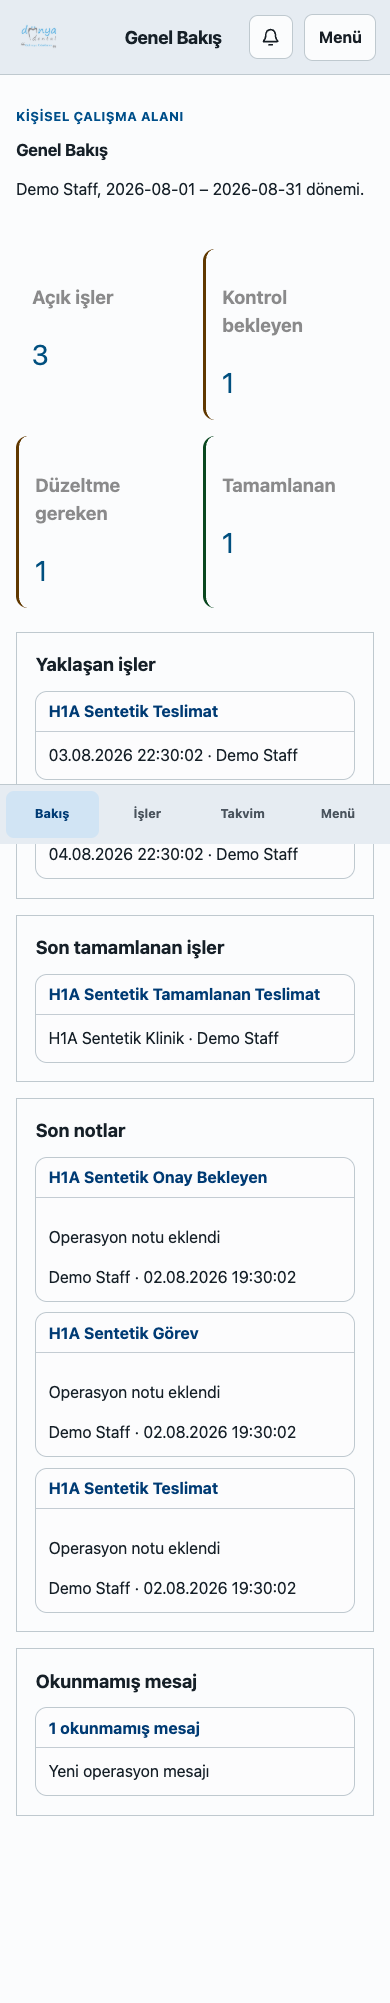
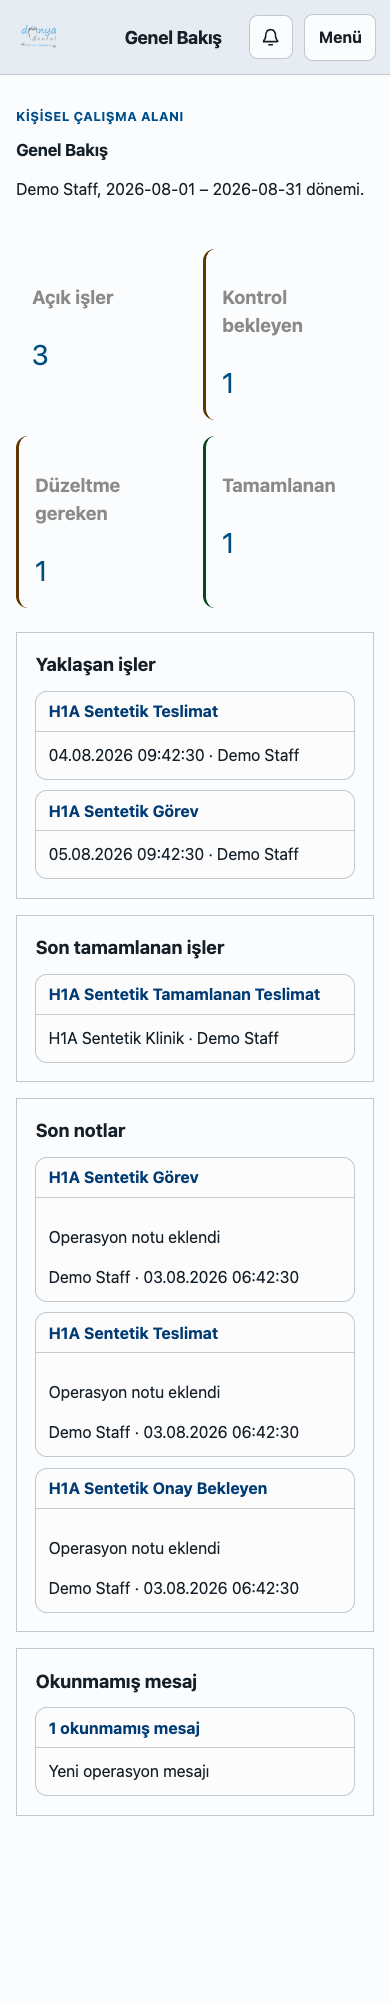
docs(evidence): re-capture full-page staff overview without fixed-nav occlusion

diff --git a/docs/evidence/phase-u-workspace/README.md b/docs/evidence/phase-u-workspace/README.md
@@ -53,7 +53,7 @@ Candidate B — Clinical Cool (canonical production palette)
 - **Runtime:** reload persistence verified
 - **Relationship:** supplements the existing viewport-clipped `overview-staff-390.png`
 - **Provenance:** fresh current-main replacement for an untracked historical full-page capture
-
+- **Capture note:** The fixed mobile bottom navigation is covered by the existing viewport capture. It was hidden only during this full-page supplemental capture to prevent Chrome fixed-layer occlusion of below-fold evidence. Application behavior is unchanged; only screenshot composition was adjusted.
 ## Verification summary
 
 - **Web tests:** 94/94 PASS (1106 tests)
